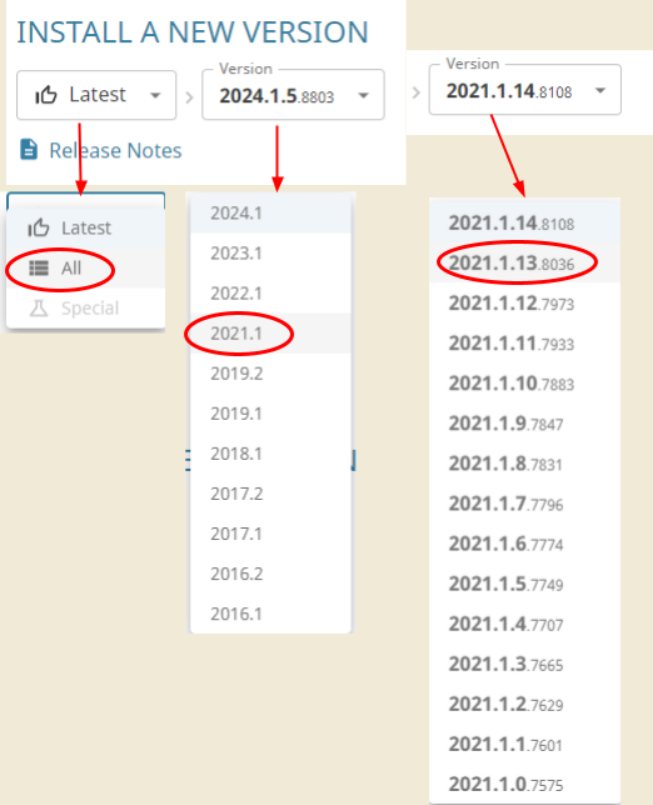
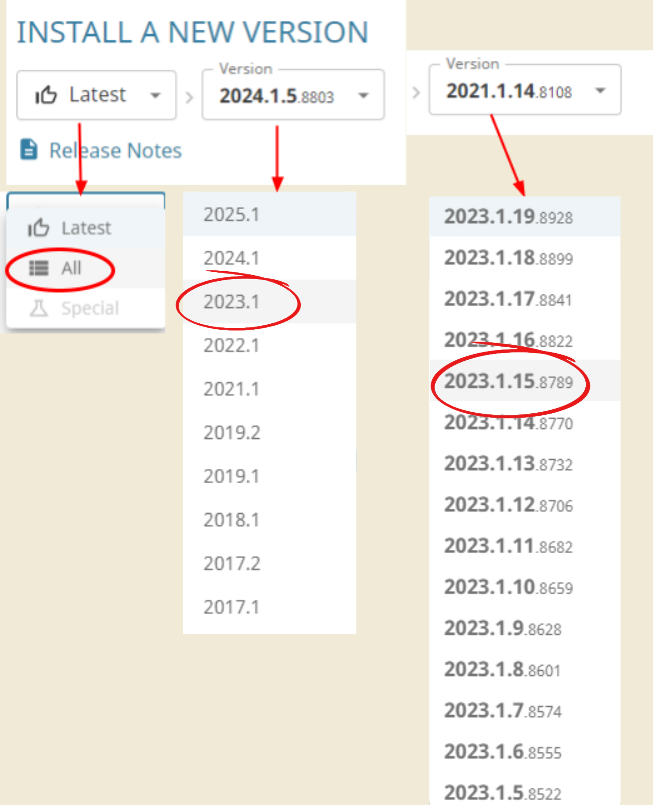
Intro Test Update
Updated to minimum required versions for UE project

diff --git a/docs/First Time Setup/Unreal Engine.md b/docs/First Time Setup/Unreal Engine.md
@@ -21,9 +21,9 @@ Near where you just clicked, there should be the option to install a new version
 ![epicgames3](img/epicgames3.png)
 ![epicgames4](img/epicgames4.png)
 
-We do not want the latest version of UE, as Payday 3 uses version 4.27.2
+We do not want the latest version of UE, as Payday 3 uses version 5.5 as of Update 3.8
 
-To change the version to install, click the version number and a small menu will appear with all the options. Just find 4.27.2 and click on it.
+To change the version to install, click the version number and a small menu will appear with all the options. Just find 5.5 and click on it.
 
 Then click install. A menu might pop up and say where you want to install this, just let it use the default location and click Install.
 

diff --git a/docs/First Time Setup/Wwise.md b/docs/First Time Setup/Wwise.md
@@ -15,9 +15,9 @@ On the left side, there is a Wwise tab, click it
 
 At the bottom where it says to Install A New Version, change Latest to All
 
-Then under Major, select version 2021.1
+Then under Major, select version 2023.1.15.8789
 
-Then under Version, select version 2021.1.13.8036
+Then under Version, select version 2023.1.15.8789
 
 ![wwise2](img/wwise2.png)
 
